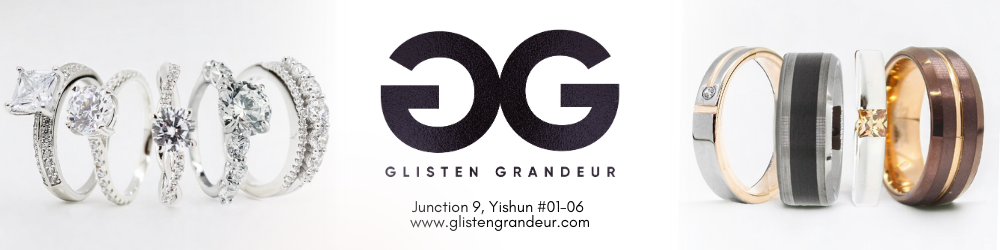
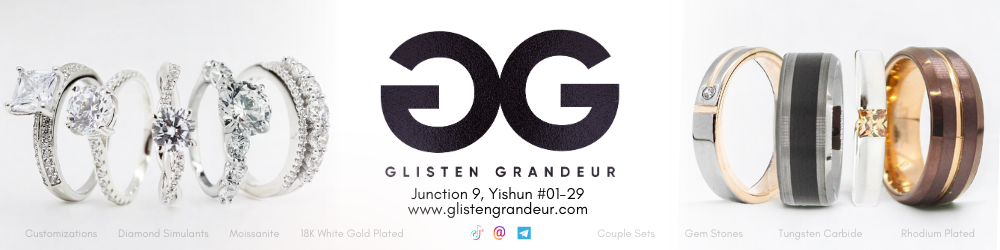
GG campaign

diff --git a/src/components/HomepageAds.tsx b/src/components/HomepageAds.tsx
@@ -54,7 +54,7 @@ const HomepageAds = () => {
         <CarouselContent>
           <CarouselItem className="flex flex-col items-center justify-center p-6">
             <Link
-              href={`https://www.instagram.com/agent.naimsalim?igsh=MW8xaHpzdGxmbXY2dA==`}
+              href={`https://www.glistengrandeur.com/`}
               target="_blank"
               onClick={() => {
                 addClick.mutate({
@@ -65,7 +65,7 @@ const HomepageAds = () => {
               <Image
                 width={1100}
                 height={220}
-                src="/ads/ANSBanner2.jpg"
+                src="/ads/1.png"
                 alt="ad1"
                 unoptimized={true}
               />

diff --git a/src/components/Tiktok.tsx b/src/components/Tiktok.tsx
@@ -17,7 +17,7 @@ const Tiktok = () => {
             className="w-[50%] lg:w-[33%] h-full border-0 bg-transparent hidden md:block"
           ></iframe>
           <iframe
-            src="https://www.tiktok.com/embed/7407781714740759816"
+            src="https://www.tiktok.com/embed/7414691959157067015"
             allow="encrypted-media;"
             className="w-[33%] h-full border-0 bg-transparent hidden lg:block"
           ></iframe>
